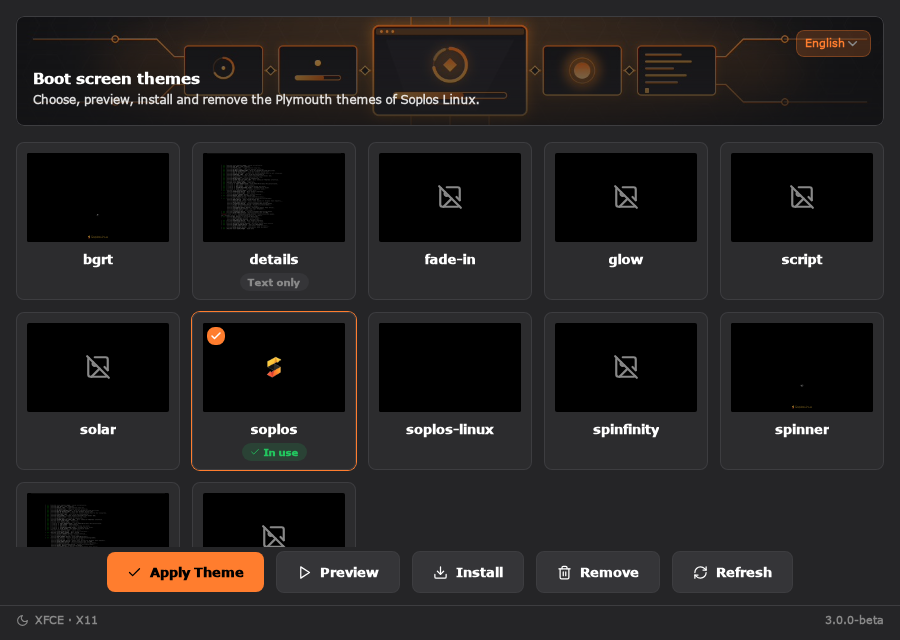
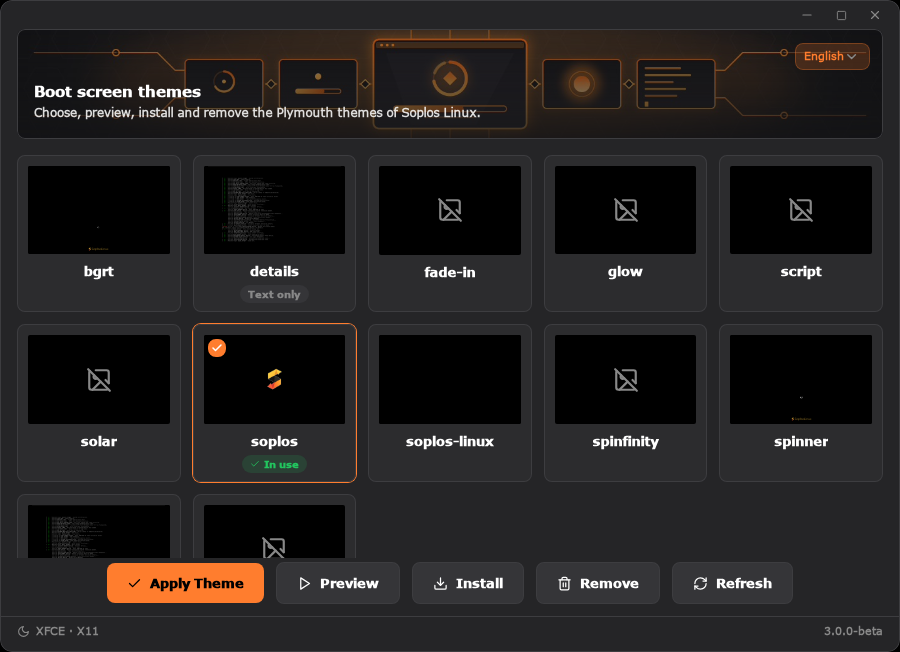
Frameless card window, new screenshots and bump to 3.0.0-2-beta

diff --git a/src/components/WindowControls.svelte b/src/components/WindowControls.svelte
@@ -1,0 +1,40 @@
+<script lang="ts">
+  import { getCurrentWindow } from "@tauri-apps/api/window";
+  import { _ } from "svelte-i18n";
+  import { Minus, Square, Copy, X } from "lucide-svelte";
+  import { maximized } from "../lib/window";
+
+  // The buttons of the window when the system draws no frame: minimize, maximize
+  // or restore, and close, at the top right of the card. They are plain icons;
+  // the accent of the theme shows under the pointer, and red only on close.
+  const win = getCurrentWindow();
+
+  const button = "grid h-[22px] w-8 place-items-center rounded text-text-muted transition-colors";
+</script>
+
+<div class="flex items-center gap-0.5">
+  <button
+    class="{button} hover:bg-primary/15 hover:text-primary"
+    title={$_("app.window.minimize")}
+    aria-label={$_("app.window.minimize")}
+    on:click={() => win.minimize()}
+  >
+    <Minus size={14} />
+  </button>
+  <button
+    class="{button} hover:bg-primary/15 hover:text-primary"
+    title={$maximized ? $_("app.window.restore") : $_("app.window.maximize")}
+    aria-label={$maximized ? $_("app.window.restore") : $_("app.window.maximize")}
+    on:click={() => win.toggleMaximize()}
+  >
+    {#if $maximized}<Copy size={11} />{:else}<Square size={11} />{/if}
+  </button>
+  <button
+    class="{button} hover:bg-danger hover:text-white"
+    title={$_("app.window.close")}
+    aria-label={$_("app.window.close")}
+    on:click={() => win.close()}
+  >
+    <X size={14} />
+  </button>
+</div>

diff --git a/src/App.svelte b/src/App.svelte
@@ -3,6 +3,8 @@
   import { getCurrentWindow } from "@tauri-apps/api/window";
   import { getVersion } from "@tauri-apps/api/app";
   import { _, locale } from "svelte-i18n";
+  import WindowControls from "./components/WindowControls.svelte";
+  import { frameless, maximized } from "./lib/window";
   import { Check, Play, Download, Trash2, RefreshCw, Sun, Moon } from "lucide-svelte";
   import { api } from "./lib/api";
   import { busy } from "./lib/jobs";
@@ -67,8 +69,15 @@
 
 <svelte:window on:keydown={handleKeydown} />
 
-<div class="relative flex flex-col h-screen overflow-hidden">
-  <div class="p-4 pb-0 shrink-0">
+<div class="h-screen bg-dark {$frameless && !$maximized ? 'window-card' : ''}">
+<div class="relative flex flex-col h-full overflow-hidden">
+  {#if $frameless}
+    <div class="relative h-7 shrink-0" data-tauri-drag-region>
+      <div class="absolute right-2 top-[3px]"><WindowControls /></div>
+    </div>
+  {/if}
+
+  <div class="p-4 pb-0 shrink-0 {$frameless ? 'pt-0' : ''}" data-tauri-drag-region="deep">
     <div
       class="relative rounded border border-border overflow-hidden flex flex-col items-start justify-end p-4 min-h-[110px]"
       style="background: linear-gradient(rgba(20, 20, 22, 0.25), rgba(20, 20, 22, 0.82)), url('/assets/hero/plymouth-manager-background.jpg'); background-size: cover; background-position: center;"
@@ -151,3 +160,4 @@
 {/if}
 
 <DialogHost />
+</div>

diff --git a/src/lib/window.ts b/src/lib/window.ts
@@ -1,0 +1,21 @@
+import { writable } from "svelte/store";
+import { getCurrentWindow } from "@tauri-apps/api/window";
+
+// Whether the system draws a frame around the window. With `decorations` off in
+// tauri.conf.json it does not: the window is one card with rounded corners (the
+// .window-card rule of global.css) and the program shows its own window buttons
+// (WindowControls.svelte). With it on, none of that shows.
+export const frameless = writable(false);
+export const maximized = writable(false);
+
+(async () => {
+  try {
+    const win = getCurrentWindow();
+    if (await win.isDecorated()) return;
+    frameless.set(true);
+    maximized.set(await win.isMaximized());
+    await win.onResized(async () => maximized.set(await win.isMaximized()));
+  } catch {
+    // Not inside Tauri (a browser while developing): leave the window as it is.
+  }
+})();

diff --git a/src/styles/global.css b/src/styles/global.css
@@ -38,12 +38,24 @@
 
   body {
     font-family: "Segoe UI", Tahoma, Geneva, Verdana, sans-serif;
-    background: theme("colors.dark");
+    /* The background is the one of the window card (App.svelte): the body stays
+       transparent so the corners of a window with no frame can be rounded. */
+    background: transparent;
     color: theme("colors.text.DEFAULT");
     height: 100vh;
     margin: 0;
     overflow: hidden;
   }
+}
+
+/*
+ * The window when the system draws no frame: one card with rounded corners.
+ * clip-path also cuts the dialogs (position: fixed), which overflow does not.
+ */
+.window-card {
+  border-radius: 12px;
+  border: 1px solid rgb(var(--color-border));
+  clip-path: inset(0 round 12px);
 }
 
 .content-scroll {

diff --git a/CHANGELOG.md b/CHANGELOG.md
@@ -2,6 +2,12 @@
 
 All notable changes to Soplos Plymouth Manager are documented in this file.
 
+## [3.0.0-2-beta] - 2026-10-29
+
+### Changed
+
+- The window no longer has the frame of the system: it is a card with rounded corners and its own minimize, maximize and close buttons at the top right. It can be moved from the top strip, the banner and the side bar, and double click on the strip maximizes it. The rounded corners need a compositing manager running, as the one of Xfce, Plasma or GNOME.
+
 ## [3.0.0-1-beta] - 2026-10-28
 
 ### Changed

diff --git a/README.md b/README.md
@@ -1,6 +1,6 @@
 # Soplos Plymouth Manager 3.0
 
-![Version](https://img.shields.io/badge/version-3.0.0--1--beta-blue)
+![Version](https://img.shields.io/badge/version-3.0.0--2--beta-blue)
 ![License](https://img.shields.io/badge/license-GPL--3.0--or--later-green)
 ![Platform](https://img.shields.io/badge/platform-Linux-lightgrey)
 ![Tauri](https://img.shields.io/badge/Tauri-2-orange)
